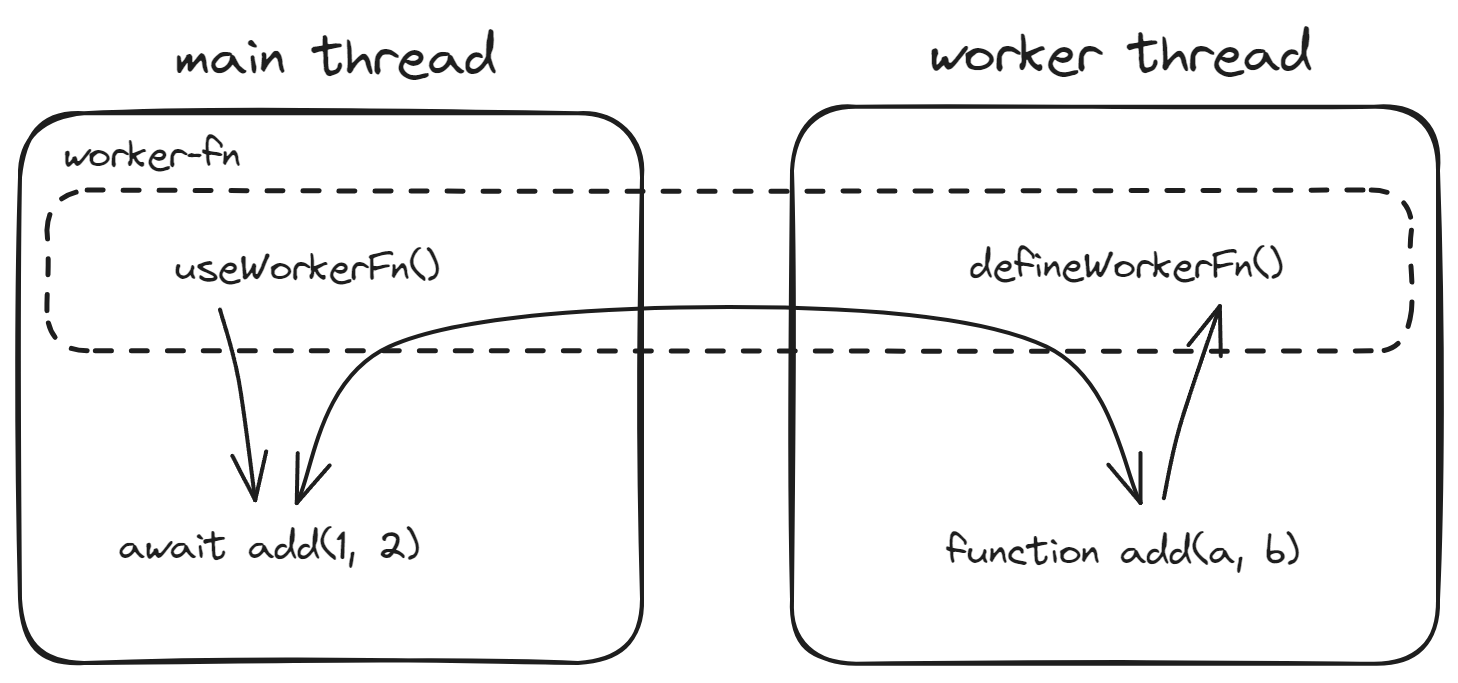
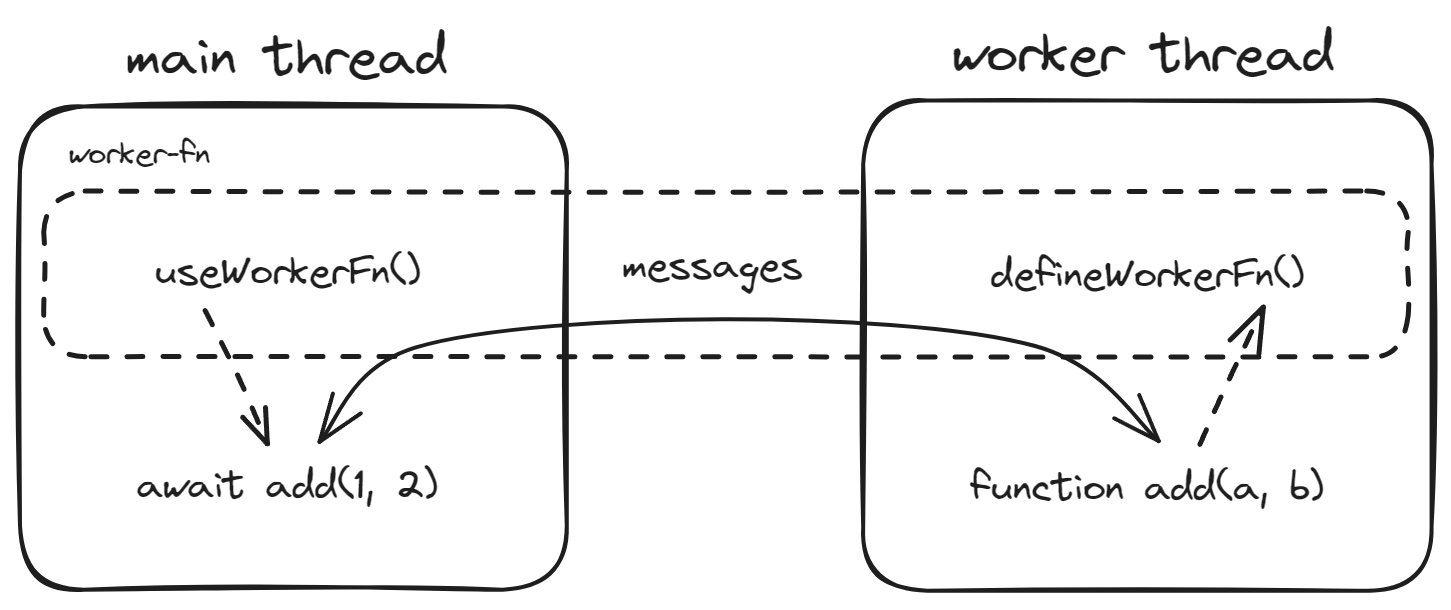
chore: update docs and configs

diff --git a/src/main.ts b/src/main.ts
@@ -1,6 +1,6 @@
 /**
- * `worker-fn` hides the complexity of communication between the main thread and Worker threads,
- * making it easy to call functions defined in the Worker.
+ * worker-fn hides the complexity of communication between the JavaScript main thread and Worker threads,
+ * making it easy to call the functions defined in workers.
  */
 
 export { defineWorkerFn, defineWorkerFns } from "./define.ts";

diff --git a/README.md b/README.md
@@ -10,15 +10,15 @@
 
 English | [中文文档](./README_zh.md)
 
-`worker-fn` hides the complexity of communication between the main thread and [Worker](https://developer.mozilla.org/docs/Web/API/Web_Workers_API) threads, making it easy to call functions defined in the Worker.
+`worker-fn` hides the complexity of communication between the JavaScript main thread and [Worker](https://developer.mozilla.org/docs/Web/API/Web_Workers_API) threads, making it easy to call the functions defined in workers.
 
-`worker-fn` allows you to create **proxy functions** in the JavaScript main thread that call corresponding **worker functions** defined in Worker threads. The proxy function has the same function signature as the worker function (except that the return value of the proxy function will be wrapped in a Promise).
+`worker-fn` allows you to create **proxy functions** in the main thread that call the corresponding **worker functions** defined in Worker threads through message events. Proxy functions have the same function signatures as the corresponding worker functions (except that the return values of proxy functions will be wrapped in Promises).
 
 ![Concept](./docs/concept.png)
 
 ## Usage
 
-### Using in browsers or Deno
+### Using in browser or Deno
 
 In `math.worker.ts`:
 
@@ -57,7 +57,7 @@ console.log(await add(1, 2)); // 3
 console.log(await fib(5)); // 5
 ```
 
-### Using in Node.js with `node:worker_threads`
+### Using in Node.js
 
 In `math.worker.ts`:
 
@@ -98,13 +98,7 @@ console.log(await fib(5)); // 5
 
 ## Importing from JSR
 
-`worker-fn` is published on both [npm](https://www.npmjs.com/package/worker-fn) and [JSR](https://jsr.io/@mys/worker-fn).
-
-If you are using Deno, you can import `worker-fn` from JSR:
-
-```typescript
-import { defineWorkerFn, useWorkerFn } from "jsr:@mys/worker-fn@3";
-```
+`worker-fn` is published on both [npm](https://www.npmjs.com/package/worker-fn) and [JSR](https://jsr.io/@mys/worker-fn). If you want to import `worker-fn` from JSR, please refer to [this document](https://jsr.io/docs/introduction#using-jsr-packages).
 
 ## License
 

diff --git a/README_zh.md b/README_zh.md
@@ -10,9 +10,9 @@
 
 [English](./README.md) | 中文文档
 
-`worker-fn` 隐藏了主线程与 [Worker](https://developer.mozilla.org/docs/Web/API/Web_Workers_API) 线程之间通信的复杂性，简化了调用定义在 Worker 中的函数。
+`worker-fn` 隐藏了 JavaScript 主线程与 [Worker](https://developer.mozilla.org/docs/Web/API/Web_Workers_API) 线程之间的通信的复杂性，可以让你方便地调用定义在 Worker 中的函数。
 
-你可以通过 `worker-fn` 在 JavaScript 主线程中创建函数签名与**工作函数**一致的**代理函数**（除了代理函数的返回值会包裹在 Promise 中），代理函数会调用定义在 Worker 线程中对应的工作函数。
+你可以通过 `worker-fn` 在 JavaScript 主线程中创建函数签名与**工作函数**一致的**代理函数**（除了代理函数的返回值会被包裹在 Promise 中），代理函数会通过消息事件调用定义在 Worker 中的对应的工作函数。
 
 ![Concept](./docs/concept.png)
 
@@ -57,7 +57,7 @@ console.log(await add(1, 2)); // 3
 console.log(await fib(5)); // 5
 ```
 
-### 在 Node.js 中与 `node:worker_threads` 一起使用
+### 在 Node.js 中使用
 
 `math.worker.ts`:
 
@@ -98,13 +98,7 @@ console.log(await fib(5)); // 5
 
 ## 从 JSR 导入
 
-`worker-fn` 同时发布在 [npm](https://www.npmjs.com/package/worker-fn) 和 [JSR](https://jsr.io/@mys/worker-fn) 上。
-
-如果你使用 [Deno](https://deno.com), 你可以从 JSR 导入 `worker-fn`:
-
-```typescript
-import { defineWorkerFn, useWorkerFn } from "jsr:@mys/worker-fn@3";
-```
+`worker-fn` 同时发布在 [npm](https://www.npmjs.com/package/worker-fn) 和 [JSR](https://jsr.io/@mys/worker-fn) 上，如果你想从 JSR 导入 `worker-fn`，请参考[这篇文档](https://jsr.io/docs/introduction#using-jsr-packages)。
 
 ## License
 
